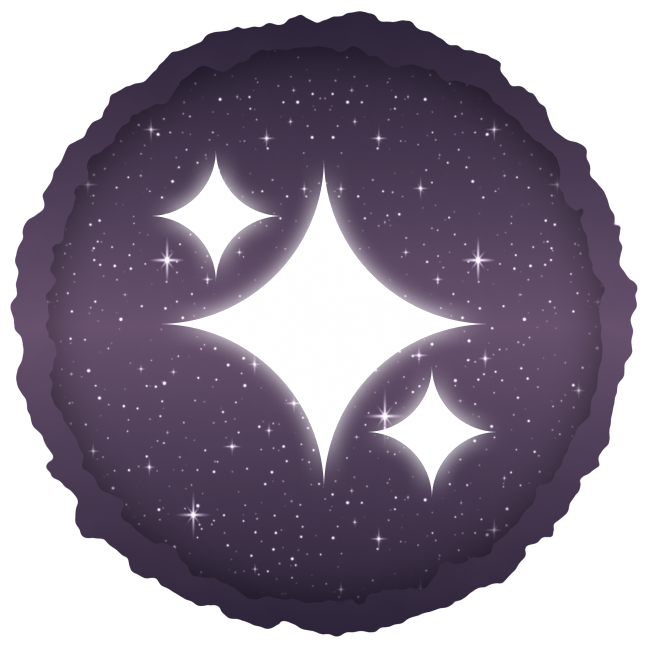
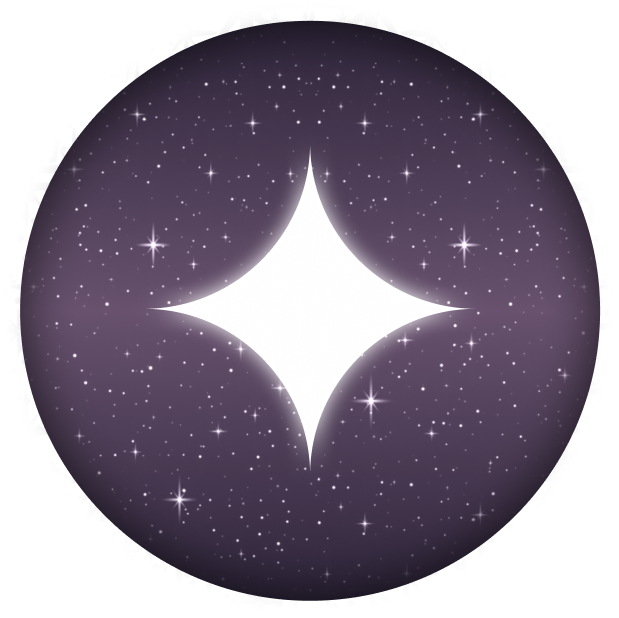
GALAXY rign working

diff --git a/index.html b/index.html
@@ -135,6 +135,59 @@
                           alt="Galaxy Ring"
                           class="absolute w-[190px] h-[190px] object-contain transition-all duration-700 z-40 opacity-0 scale-95 pointer-events-none"
                         />
+                        <!-- Galaxy Circle Border -->
+                        <img
+                          id="galaxy-circle-border"
+                          src="assets/Images/GalaxyCircleborder.png"
+                          alt="Galaxy Border"
+                          class="absolute w-[190px] h-[190px] object-contain transition-all duration-700 z-40 opacity-0 scale-95 pointer-events-none"
+                        />
+                        <!-- Star 1 (top-left) -->
+                        <svg id="galaxy-star-1" class="absolute pointer-events-none" style="top: 26px; left: 26px; width: 60px; height: 60px; z-index: 50; opacity: 0; transition: opacity 0.7s ease-in-out;" viewBox="0 0 67 67" fill="none" xmlns="http://www.w3.org/2000/svg">
+                          <g filter="url(#star1_filter)">
+                            <path d="M33.097 10C33.097 22.7561 43.4378 33.097 56.1939 33.097C43.4378 33.097 33.097 43.4378 33.097 56.1939C33.097 43.4378 22.7561 33.097 10 33.097C22.7561 33.097 33.097 22.7561 33.097 10Z" fill="url(#star1_gold)"/>
+                            <path d="M33.0975 19.2402C33.0975 26.8938 39.302 33.0984 46.9556 33.0984C39.302 33.0984 33.0975 39.3029 33.0975 46.9566C33.0975 39.3029 26.8929 33.0984 19.2393 33.0984C26.8929 33.0984 33.0975 26.8938 33.0975 19.2402Z" fill="white"/>
+                          </g>
+                          <defs>
+                            <filter id="star1_filter" x="0" y="0" width="66.1938" height="66.1934" filterUnits="userSpaceOnUse" color-interpolation-filters="sRGB">
+                              <feFlood flood-opacity="0" result="BackgroundImageFix"/>
+                              <feColorMatrix in="SourceAlpha" type="matrix" values="0 0 0 0 0 0 0 0 0 0 0 0 0 0 0 0 0 0 127 0" result="hardAlpha"/>
+                              <feOffset/><feGaussianBlur stdDeviation="5"/>
+                              <feComposite in2="hardAlpha" operator="out"/>
+                              <feColorMatrix type="matrix" values="0 0 0 0 0.639216 0 0 0 0 0.54902 0 0 0 0 0.482353 0 0 0 0.25 0"/>
+                              <feBlend mode="normal" in2="BackgroundImageFix" result="effect1_dropShadow"/>
+                              <feBlend mode="normal" in="SourceGraphic" in2="effect1_dropShadow" result="shape"/>
+                            </filter>
+                            <linearGradient id="star1_gold" x1="33.097" y1="8.097" x2="33.097" y2="58.097" gradientUnits="userSpaceOnUse">
+                              <stop stop-color="#f7f7f7"/>
+                              <stop offset="0.5" stop-color="#f7f7f7"/>
+                              <stop offset="1" stop-color="#f7f7f7"/>
+                            </linearGradient>
+                          </defs>
+                        </svg>
+                        <!-- Star 2 (bottom-right) -->
+                        <svg id="galaxy-star-2" class="absolute pointer-events-none" style="bottom: 26px; right: 26px; width: 60px; height: 60px; z-index: 50; opacity: 0; transition: opacity 0.7s ease-in-out;" viewBox="0 0 67 67" fill="none" xmlns="http://www.w3.org/2000/svg">
+                          <g filter="url(#star2_filter)">
+                            <path d="M33.097 10C33.097 22.7561 43.4378 33.097 56.1939 33.097C43.4378 33.097 33.097 43.4378 33.097 56.1939C33.097 43.4378 22.7561 33.097 10 33.097C22.7561 33.097 33.097 22.7561 33.097 10Z" fill="url(#star2_gold)"/>
+                            <path d="M33.0975 19.2402C33.0975 26.8938 39.302 33.0984 46.9556 33.0984C39.302 33.0984 33.0975 39.3029 33.0975 46.9566C33.0975 39.3029 26.8929 33.0984 19.2393 33.0984C26.8929 33.0984 33.0975 26.8938 33.0975 19.2402Z" fill="white"/>
+                          </g>
+                          <defs>
+                            <filter id="star2_filter" x="0" y="0" width="66.1938" height="66.1934" filterUnits="userSpaceOnUse" color-interpolation-filters="sRGB">
+                              <feFlood flood-opacity="0" result="BackgroundImageFix"/>
+                              <feColorMatrix in="SourceAlpha" type="matrix" values="0 0 0 0 0 0 0 0 0 0 0 0 0 0 0 0 0 0 127 0" result="hardAlpha"/>
+                              <feOffset/><feGaussianBlur stdDeviation="5"/>
+                              <feComposite in2="hardAlpha" operator="out"/>
+                              <feColorMatrix type="matrix" values="0 0 0 0 0.639216 0 0 0 0 0.54902 0 0 0 0 0.482353 0 0 0 0.25 0"/>
+                              <feBlend mode="normal" in2="BackgroundImageFix" result="effect1_dropShadow"/>
+                              <feBlend mode="normal" in="SourceGraphic" in2="effect1_dropShadow" result="shape"/>
+                            </filter>
+                            <linearGradient id="star2_gold" x1="33.097" y1="8.097" x2="33.097" y2="58.097" gradientUnits="userSpaceOnUse">
+                              <stop stop-color="#f7f7f7"/>
+                              <stop offset="0.5" stop-color="#f7f7f7"/>
+                              <stop offset="1" stop-color="#f7f7f7"/>
+                            </linearGradient>
+                          </defs>
+                        </svg>
 
                         <!-- Ring 2 -->
                         <svg

diff --git a/script.js b/script.js
@@ -453,31 +453,51 @@ function updateUI() {
   if (progress >= 175) {
     ring1.setAttribute(
       "class",
-      "absolute w-[190px] h-[190px] transition-all duration-700 z-30 opacity-0 scale-95 pointer-events-none"
+      "absolute w-[190px] h-[190px] transition-all duration-700 z-30 opacity-0 scale-95 pointer-events-none",
     );
   } else if (progress >= 160) {
     ring1.setAttribute(
       "class",
-      "absolute w-[190px] h-[190px] transition-all duration-700 z-30 opacity-100 spin-20s"
+      "absolute w-[190px] h-[190px] transition-all duration-700 z-30 opacity-100 spin-20s",
     );
   } else {
     ring1.setAttribute(
       "class",
-      "absolute w-[190px] h-[190px] transition-all duration-700 z-30"
+      "absolute w-[190px] h-[190px] transition-all duration-700 z-30",
     );
   }
 
   // Final Ring Image
   const finalRingImage = document.getElementById("final-ring-image");
+  const galaxyCircleBorder = document.getElementById("galaxy-circle-border");
   finalRingImage.src =
     progress >= 575 ? "assets/Images/ring2.png" : "assets/Images/rign.png";
   if (progress >= 175) {
     finalRingImage.className =
       "absolute w-[190px] h-[190px] object-contain transition-all duration-700 z-40 opacity-100 scale-100";
+    if (galaxyCircleBorder) {
+      galaxyCircleBorder.className =
+        "absolute w-[190px] h-[190px] object-contain transition-all duration-700 z-40 opacity-100 scale-100 spin-20s";
+    }
   } else {
     finalRingImage.className =
       "absolute w-[190px] h-[190px] object-contain transition-all duration-700 z-40 opacity-0 scale-95 pointer-events-none";
+    if (galaxyCircleBorder) {
+      galaxyCircleBorder.className =
+        "absolute w-[190px] h-[190px] object-contain transition-all duration-700 z-40 opacity-0 scale-95 pointer-events-none";
+    }
   }
+  // Galaxy stars — only show with the final galaxy ring image (progress >= 175)
+  const star1 = document.getElementById("galaxy-star-1");
+  const star2 = document.getElementById("galaxy-star-2");
+  if (progress >= 175) {
+    if (star1) { star1.style.opacity = "1"; star1.style.transition = "opacity 0.7s ease-in-out"; }
+    if (star2) { star2.style.opacity = "1"; star2.style.transition = "opacity 0.7s ease-in-out"; }
+  } else {
+    if (star1) star1.style.opacity = "0";
+    if (star2) star2.style.opacity = "0";
+  }
+
 
   // Ring 2
   let r2Prog = null;